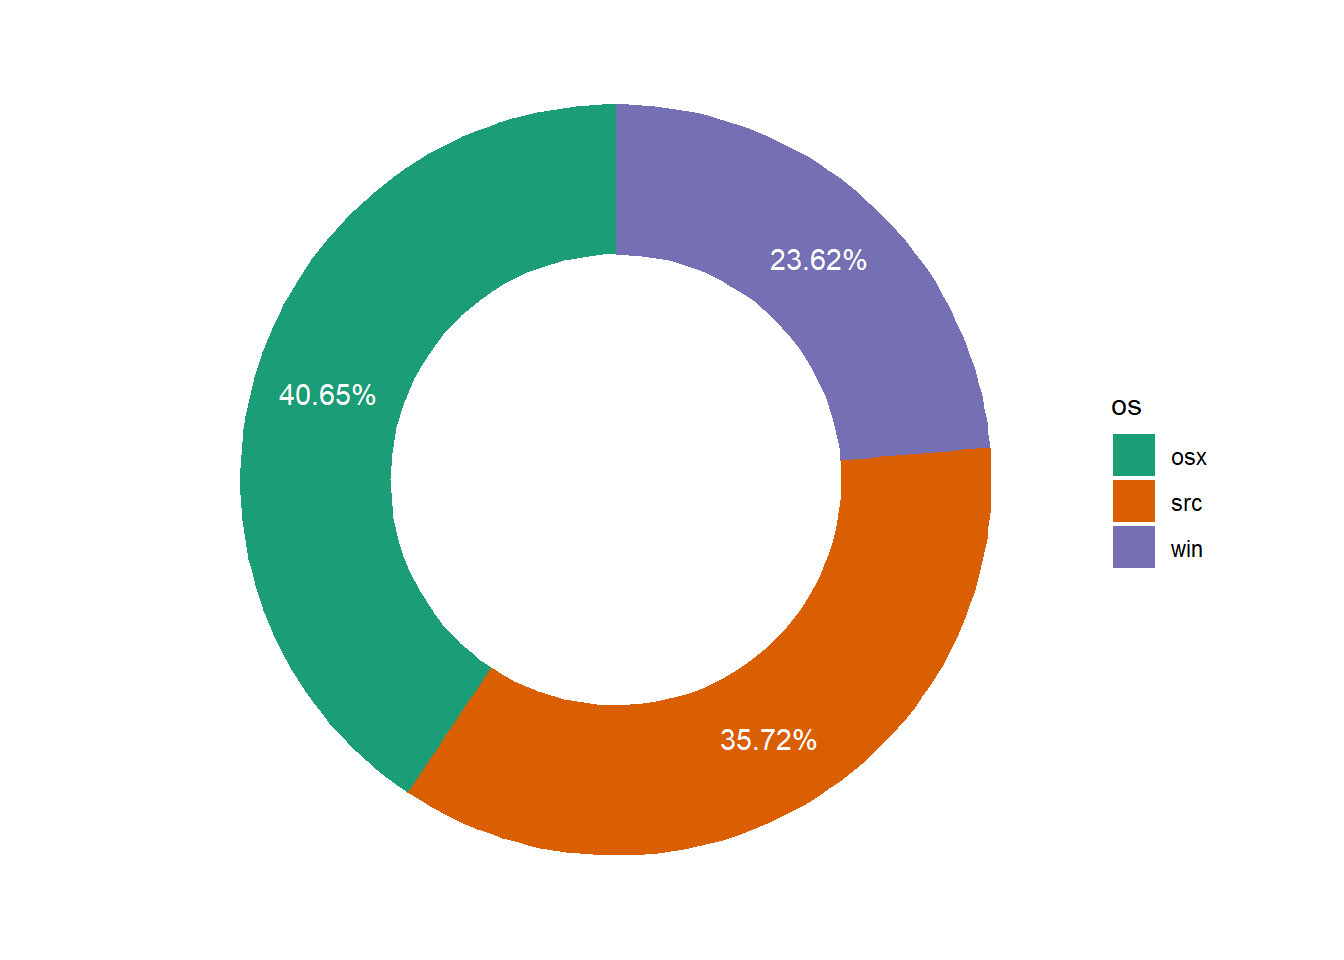
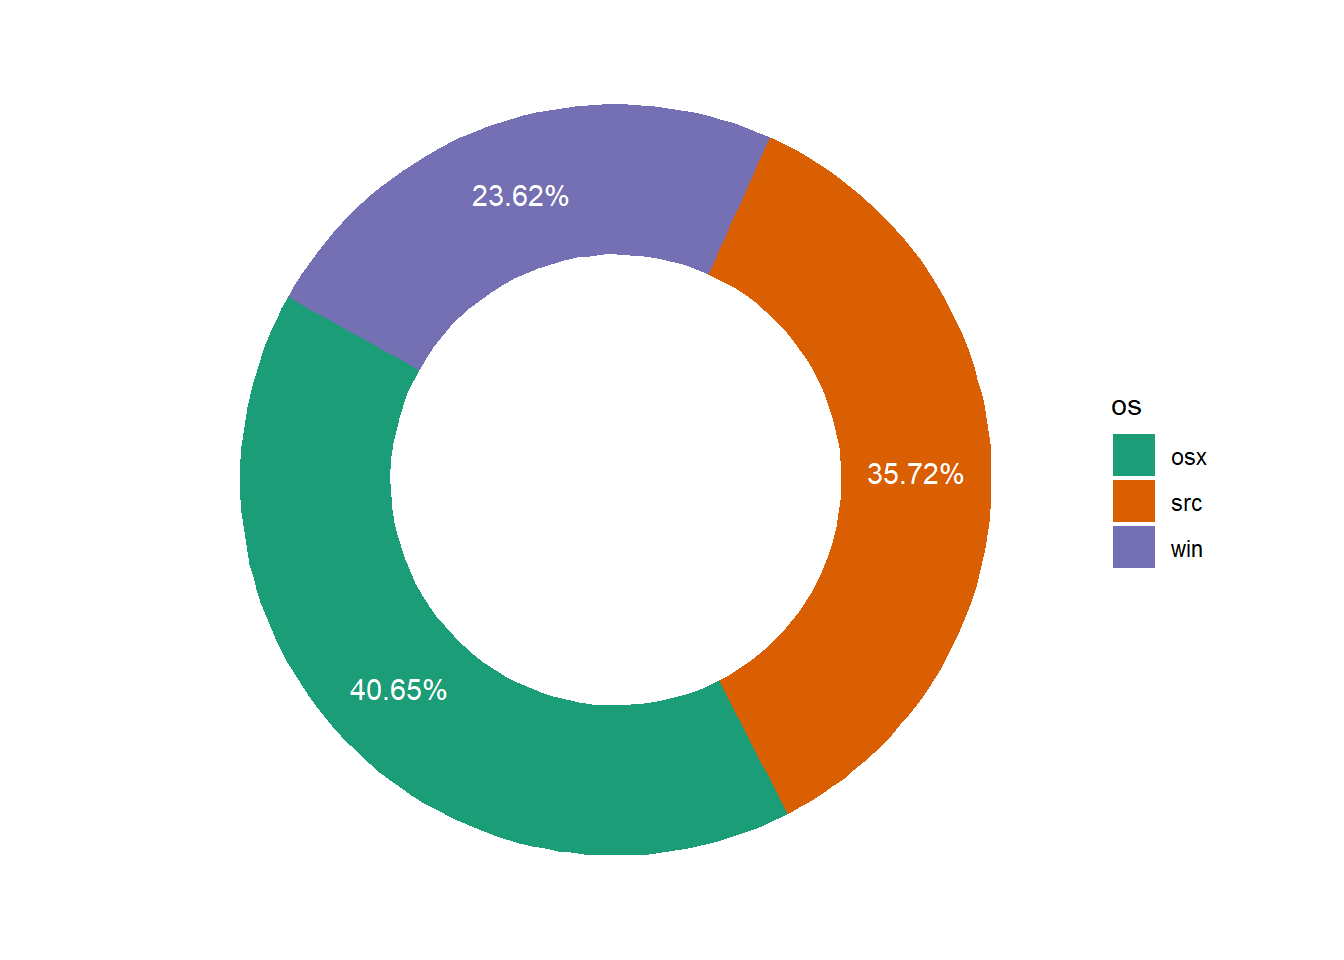
updated post on pie chart

diff --git a/content/post/2019-07-12-pie-chart-and-donut-plot-with-ggplot2.html b/content/post/2019-07-12-pie-chart-and-donut-plot-with-ggplot2.html
@@ -188,10 +188,7 @@ osx
 </tr>
 </tbody>
 </table>
-<pre class="r"><code>rdown = rdown %&gt;% 
-  as_tibble() %&gt;% 
-  mutate(month = lubridate::month(date, abbr = TRUE, label = TRUE))</code></pre>
-<p>To have a glimpse of the R version download, we first ask the question, Are R downloads differs over time and operating system? To address this question, we need first to remove downloads that does contain information of the operating system from the dataset. Then we group the dowloads based on the month and create a sequence of time spaning from January to December and make it repeat based on the frequency of the operating systems. The chunk below illustrate the code of lines used to prepare the data to answer the question asked above.</p>
+<p>To have a glimpse of the R version download, we first ask the question, <em>Are R downloads differs over time and operating system?</em> To address this question, we need first to remove downloads that does contain information of the operating system from the dataset. Then we group the dowloads based on the month and create a sequence of time spaning from January to December and make it repeat based on the frequency of the operating systems. The chunk below illustrate the code of lines used to prepare the data to answer the question asked above.</p>
 <pre class="r"><code>rdown.group = rdown %&gt;% 
   filter(os != &quot;NA&quot;) %&gt;% 
   group_by(month, os) %&gt;% count() %&gt;% 
@@ -230,7 +227,7 @@ Figure 1: Variation of R downloads from different operating systems over a perio
 <pre class="r"><code>ggplot(data = rdown.os, 
        aes(x = &quot;&quot;, y = percentage, fill = os))+
   geom_bar(stat = &quot;identity&quot;)+
-  coord_polar(&quot;y&quot;, start = 0) +
+  coord_polar(&quot;y&quot;, start = 200) +
   geom_text(aes(y = lab.pos, label = paste(percentage,&quot;%&quot;, sep = &quot;&quot;)), col = &quot;white&quot;) +
   theme_void() +
   scale_fill_brewer(palette = &quot;Dark2&quot;)</code></pre>
@@ -245,7 +242,7 @@ A donut chart is lighter version of pie chart with a hole at the center. Categor
 <pre class="r"><code>ggplot(data = rdown.os, 
        aes(x = 2, y = percentage, fill = os))+
   geom_bar(stat = &quot;identity&quot;)+
-  coord_polar(&quot;y&quot;, start = 0) +
+  coord_polar(&quot;y&quot;, start = 200) +
   geom_text(aes(y = lab.pos, label = paste(percentage,&quot;%&quot;, sep = &quot;&quot;)), col = &quot;white&quot;) +
   theme_void() +
   scale_fill_brewer(palette = &quot;Dark2&quot;)+
@@ -257,8 +254,8 @@ Figure 3: Donut chart
 </p>
 </div>
 </div>
-<div id="referebces" class="section level3 unnumbered">
-<h3>Referebces</h3>
+<div id="references" class="section level3 unnumbered">
+<h3>References</h3>
 <div id="refs" class="references">
 <div id="ref-cranlog">
 <p>Csárdi, Gábor. 2019. <em>Cranlogs: Download Logs from the ’Rstudio’ ’Cran’ Mirror</em>. <a href="https://CRAN.R-project.org/package=cranlogs">https://CRAN.R-project.org/package=cranlogs</a>.</p>

diff --git a/public/07/12/2019/pie-chart-and-donut-plot-with-ggplot2/index.html b/public/07/12/2019/pie-chart-and-donut-plot-with-ggplot2/index.html
@@ -256,10 +256,7 @@ osx
 </tr>
 </tbody>
 </table>
-<pre class="r"><code>rdown = rdown %&gt;% 
-  as_tibble() %&gt;% 
-  mutate(month = lubridate::month(date, abbr = TRUE, label = TRUE))</code></pre>
-<p>To have a glimpse of the R version download, we first ask the question, Are R downloads differs over time and operating system? To address this question, we need first to remove downloads that does contain information of the operating system from the dataset. Then we group the dowloads based on the month and create a sequence of time spaning from January to December and make it repeat based on the frequency of the operating systems. The chunk below illustrate the code of lines used to prepare the data to answer the question asked above.</p>
+<p>To have a glimpse of the R version download, we first ask the question, <em>Are R downloads differs over time and operating system?</em> To address this question, we need first to remove downloads that does contain information of the operating system from the dataset. Then we group the dowloads based on the month and create a sequence of time spaning from January to December and make it repeat based on the frequency of the operating systems. The chunk below illustrate the code of lines used to prepare the data to answer the question asked above.</p>
 <pre class="r"><code>rdown.group = rdown %&gt;% 
   filter(os != &quot;NA&quot;) %&gt;% 
   group_by(month, os) %&gt;% count() %&gt;% 
@@ -298,7 +295,7 @@ Figure 1: Variation of R downloads from different operating systems over a perio
 <pre class="r"><code>ggplot(data = rdown.os, 
        aes(x = &quot;&quot;, y = percentage, fill = os))+
   geom_bar(stat = &quot;identity&quot;)+
-  coord_polar(&quot;y&quot;, start = 0) +
+  coord_polar(&quot;y&quot;, start = 200) +
   geom_text(aes(y = lab.pos, label = paste(percentage,&quot;%&quot;, sep = &quot;&quot;)), col = &quot;white&quot;) +
   theme_void() +
   scale_fill_brewer(palette = &quot;Dark2&quot;)</code></pre>
@@ -313,7 +310,7 @@ A donut chart is lighter version of pie chart with a hole at the center. Categor
 <pre class="r"><code>ggplot(data = rdown.os, 
        aes(x = 2, y = percentage, fill = os))+
   geom_bar(stat = &quot;identity&quot;)+
-  coord_polar(&quot;y&quot;, start = 0) +
+  coord_polar(&quot;y&quot;, start = 200) +
   geom_text(aes(y = lab.pos, label = paste(percentage,&quot;%&quot;, sep = &quot;&quot;)), col = &quot;white&quot;) +
   theme_void() +
   scale_fill_brewer(palette = &quot;Dark2&quot;)+
@@ -325,8 +322,8 @@ Figure 3: Donut chart
 </p>
 </div>
 </div>
-<div id="referebces" class="section level3 unnumbered">
-<h3>Referebces</h3>
+<div id="references" class="section level3 unnumbered">
+<h3>References</h3>
 <div id="refs" class="references">
 <div id="ref-cranlog">
 <p>Csárdi, Gábor. 2019. <em>Cranlogs: Download Logs from the ’Rstudio’ ’Cran’ Mirror</em>. <a href="https://CRAN.R-project.org/package=cranlogs">https://CRAN.R-project.org/package=cranlogs</a>.</p>

diff --git a/public/tags/index.html b/public/tags/index.html
@@ -166,6 +166,13 @@
     </article>
     
     <article class="archive-item">
+      <a href="/tags/bookdown/" class="archive-item-link">bookdown</a>
+      <span class="archive-item-date">
+        2019/04/15
+      </span>
+    </article>
+    
+    <article class="archive-item">
       <a href="/tags/blogdown/" class="archive-item-link">blogdown</a>
       <span class="archive-item-date">
         2019/04/15
@@ -174,13 +181,6 @@
     
     <article class="archive-item">
       <a href="/tags/aviso/" class="archive-item-link">aviso</a>
-      <span class="archive-item-date">
-        2019/04/15
-      </span>
-    </article>
-    
-    <article class="archive-item">
-      <a href="/tags/bookdown/" class="archive-item-link">Bookdown</a>
       <span class="archive-item-date">
         2019/04/15
       </span>

diff --git a/public/tags/bookdown/index.html b/public/tags/bookdown/index.html
@@ -6,8 +6,8 @@
 <meta name="generator" content="Hugo 0.55.2" />
 
 
-<title>Bookdown - Masumbuko Semba&#39;s Blog</title>
-<meta property="og:title" content="Bookdown - Masumbuko Semba&#39;s Blog">
+<title>bookdown - Masumbuko Semba&#39;s Blog</title>
+<meta property="og:title" content="bookdown - Masumbuko Semba&#39;s Blog">
 
 
 
